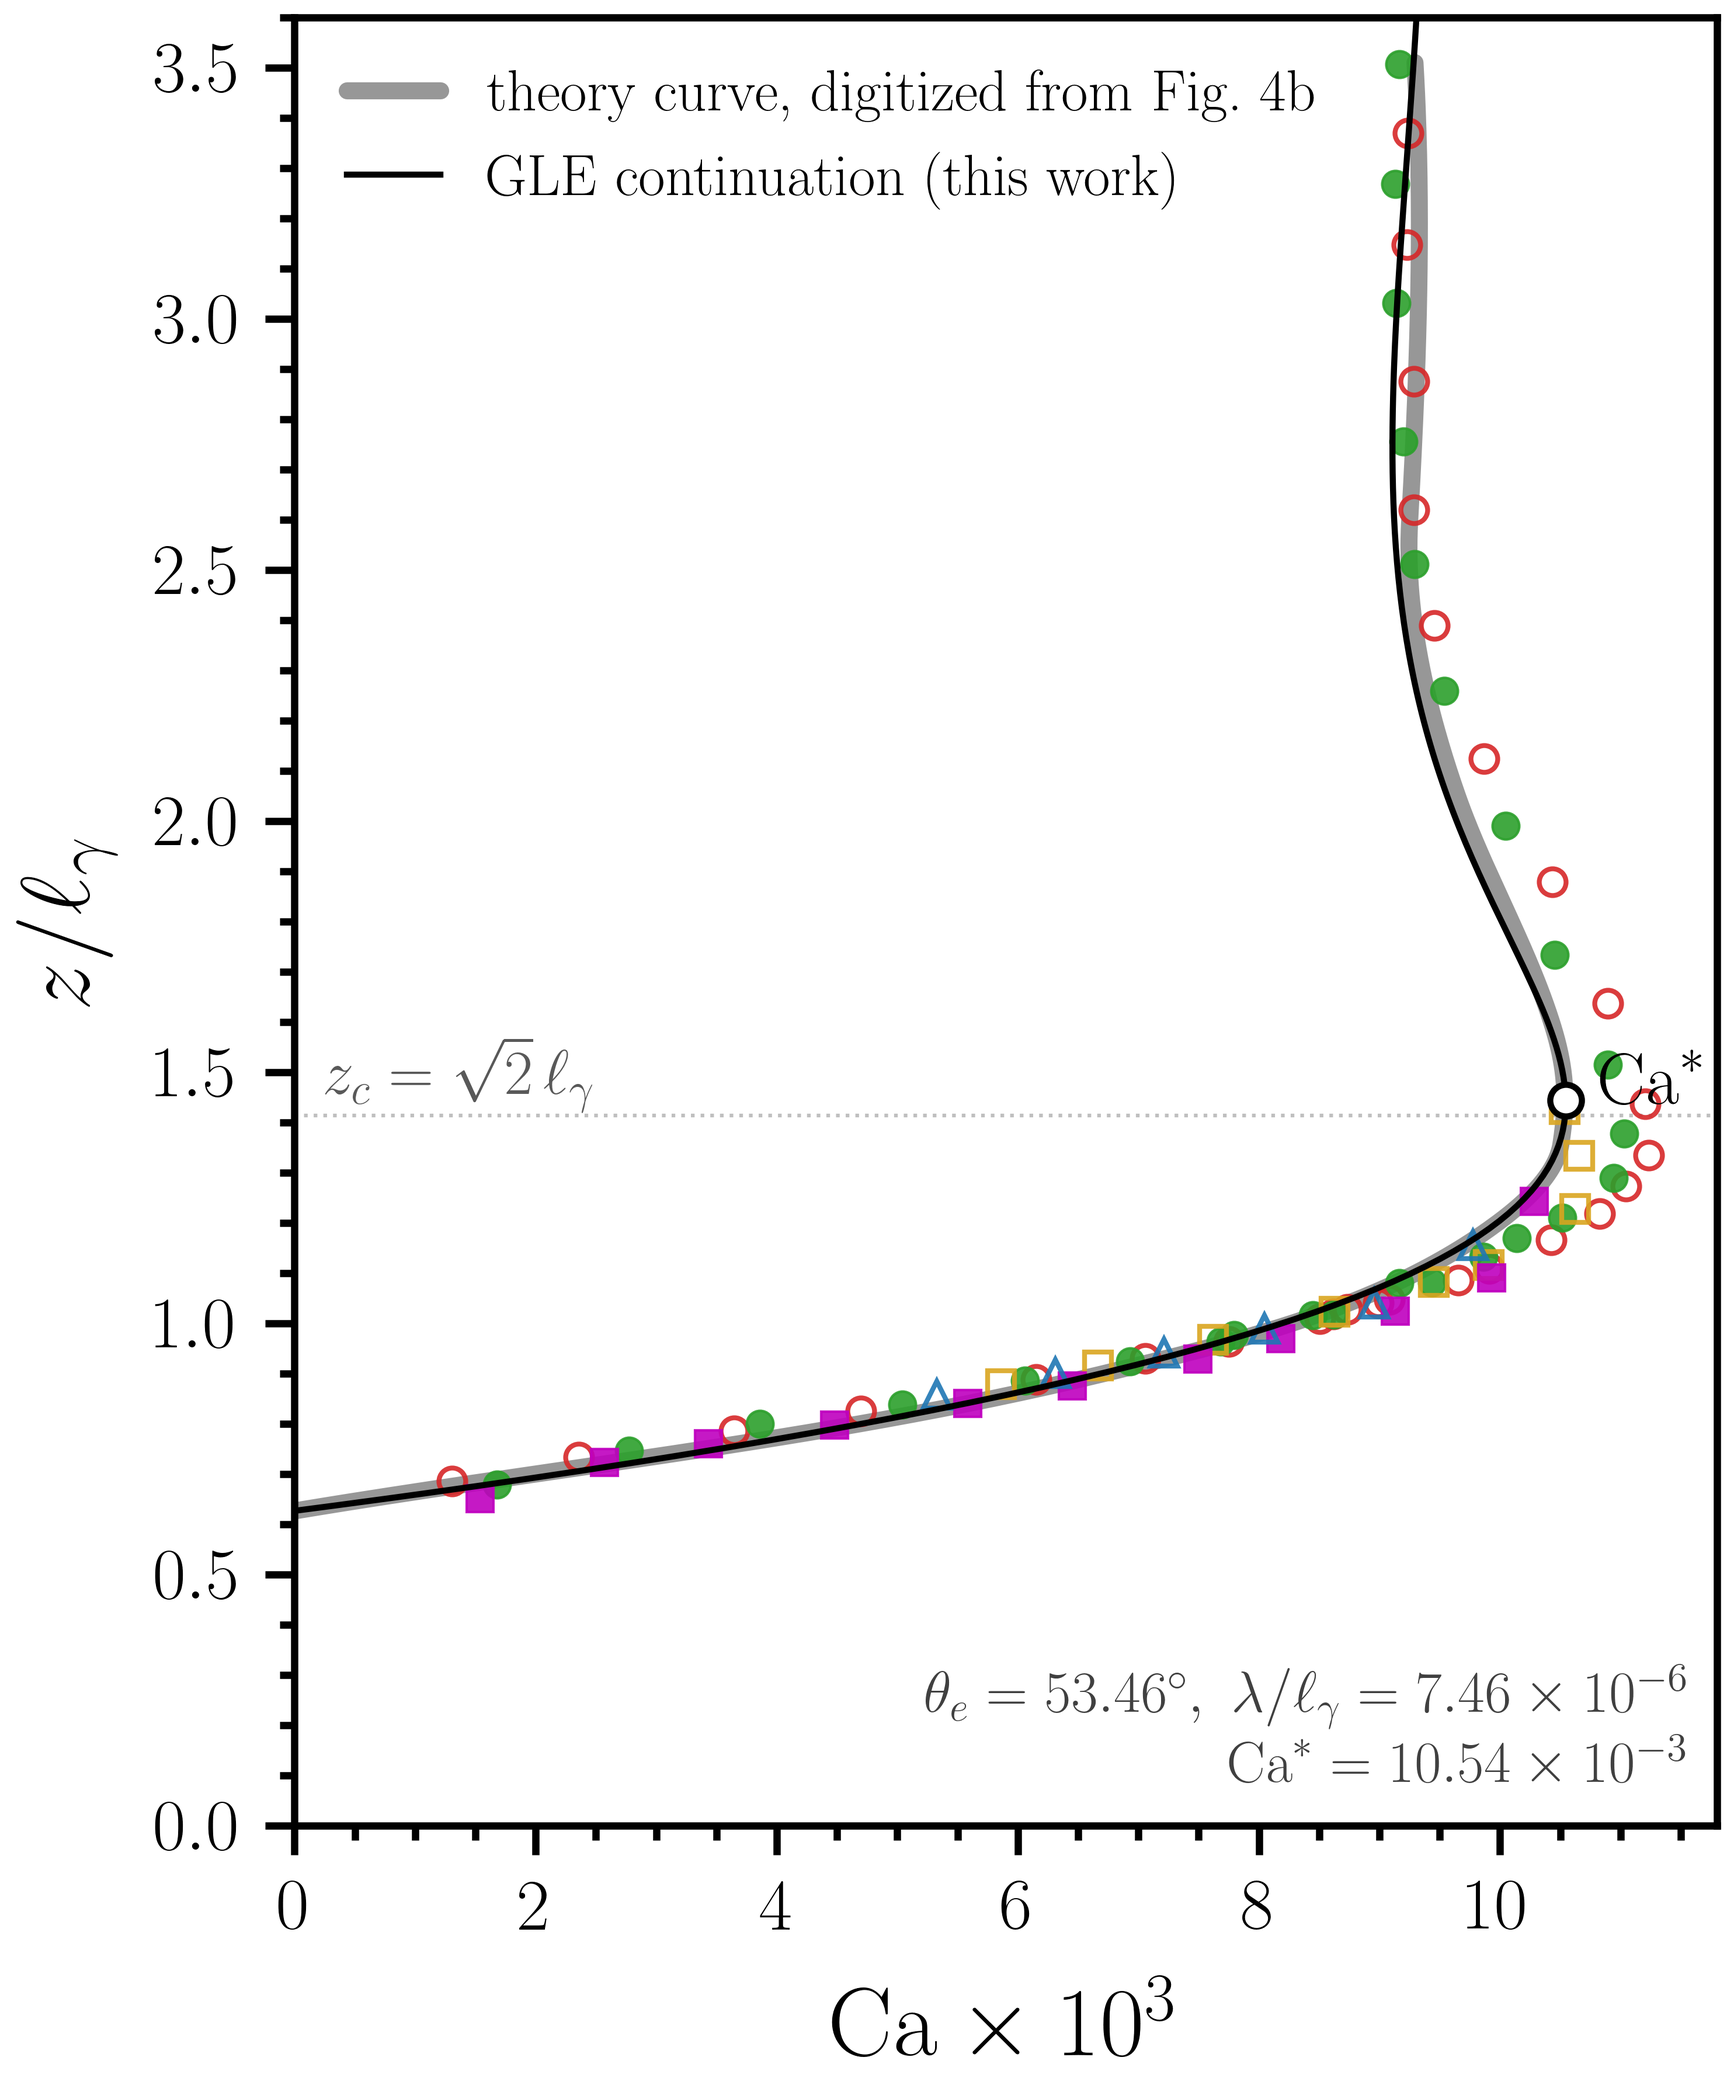
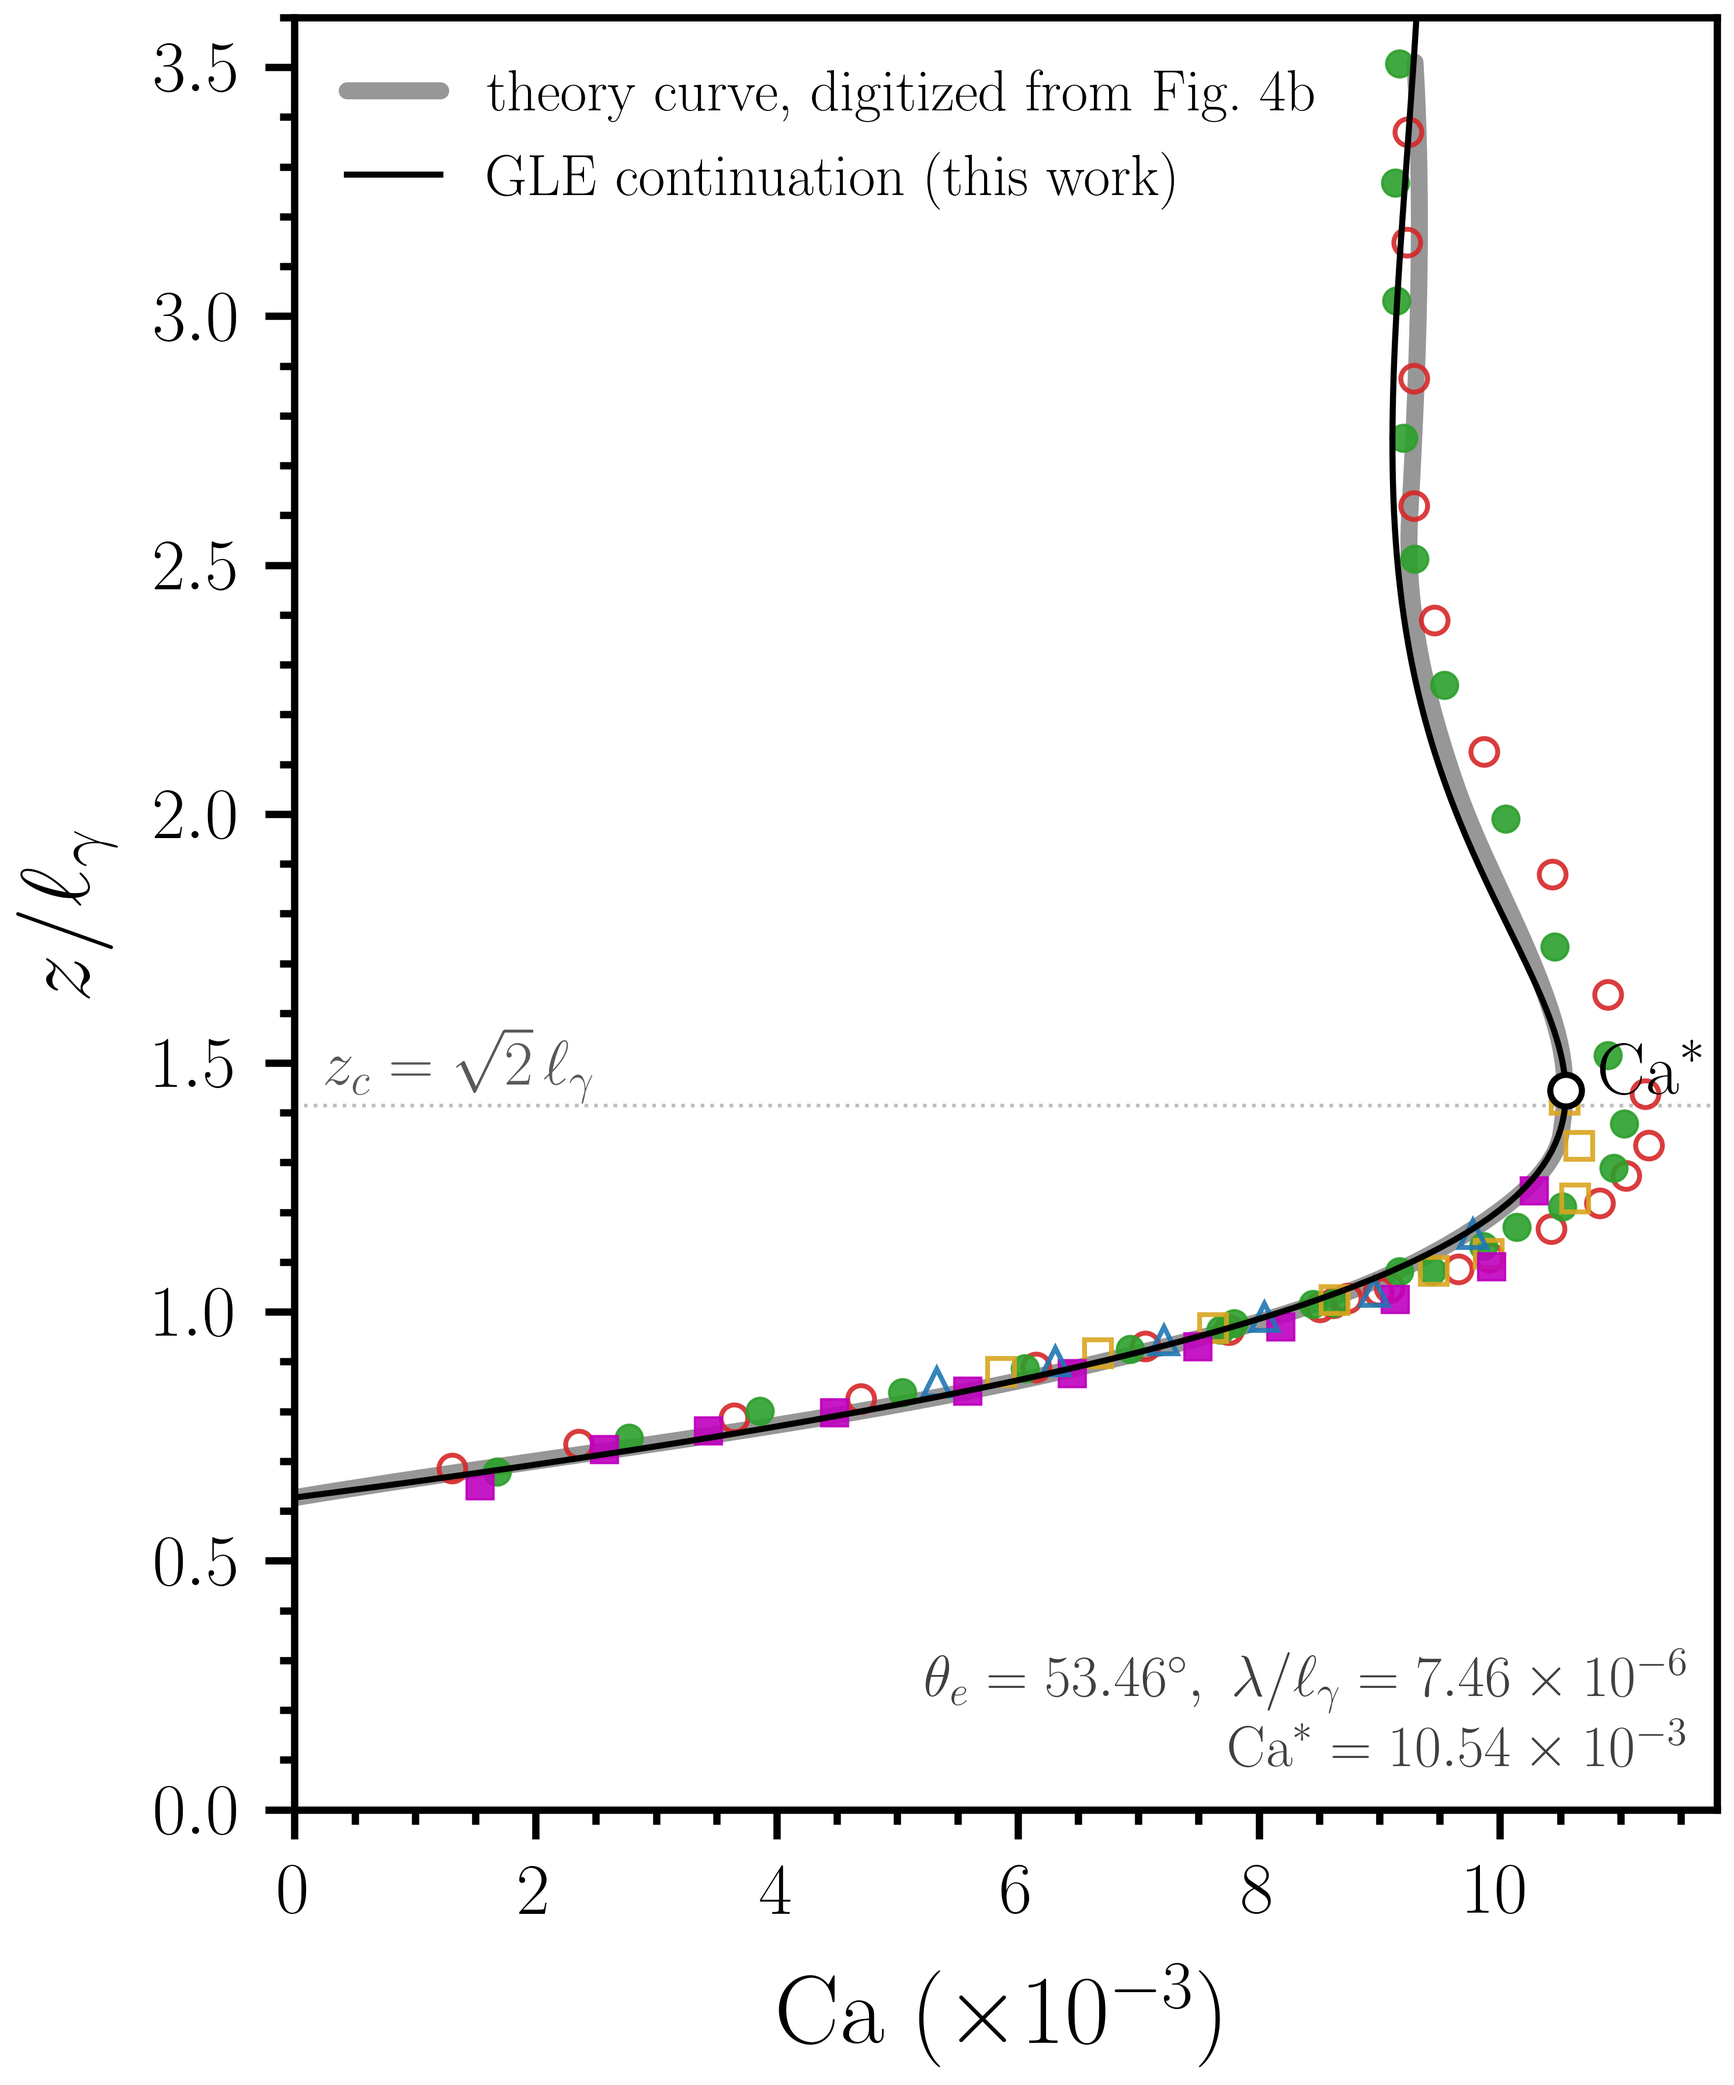
Rename gle-only to gle-ode; fix fig-4b axis label
Renamed the standalone-solver folder and swept every reference across
build files, docs, and post-processing scripts. Fixed the Fig. 4b
x-axis label to read Ca (x 10^-3), matching the paper's convention.

diff --git a/postProcess/plot-fig4b.py b/postProcess/plot-fig4b.py
@@ -7,7 +7,7 @@
 # Fig. 4b reproduction plot
 
 Overlays the pseudo-arclength/collocation continuation of the GLE
-(`gle-only/gle-continuation`) on the bifurcation diagram of Fig. 4b of
+(`gle-ode/gle-continuation`) on the bifurcation diagram of Fig. 4b of
 Snoeijer & Andreotti, *Annu. Rev. Fluid Mech.* 45:269-292 (2013): meniscus
 rise $z/\\ell_\\gamma$ versus capillary number for a partially wetting plate
 withdrawn from a silicone-oil bath.
@@ -21,7 +21,7 @@ Delon et al. (2008).
 
 ```bash
 uv run postProcess/plot-fig4b.py [branch.csv] [output.pdf]
-# defaults: gle-only/output/fig4b-branch.csv -> img/fig4b-reproduction.png+pdf
+# defaults: gle-ode/output/fig4b-branch.csv -> img/fig4b-reproduction.png+pdf
 ```
 
 ## Author
@@ -50,7 +50,7 @@ REPO = Path(__file__).resolve().parent.parent
 DIGI = REPO / 'data' / 'fig4b-digitized'
 
 branch_csv = Path(sys.argv[1]) if len(sys.argv) > 1 else \
-    REPO / 'gle-only' / 'output' / 'fig4b-branch.csv'
+    REPO / 'gle-ode' / 'output' / 'fig4b-branch.csv'
 out_base = Path(sys.argv[2]).with_suffix('') if len(sys.argv) > 2 else \
     REPO / 'img' / 'fig4b-reproduction'
 out_base.parent.mkdir(parents=True, exist_ok=True)
@@ -111,7 +111,7 @@ ax.text(0.25, np.sqrt(2.0) + 0.04, r'$z_c = \sqrt{2}\,\ell_\gamma$',
 
 ax.set_xlim(0, 11.8)
 ax.set_ylim(0, 3.6)
-ax.set_xlabel(r'$\mathrm{Ca} \times 10^{3}$', fontsize=40, labelpad=15)
+ax.set_xlabel(r'$\mathrm{Ca}\;(\times 10^{-3})$', fontsize=40, labelpad=15)
 ax.set_ylabel(r'$z/\ell_\gamma$', fontsize=40, labelpad=15)
 
 ax.tick_params(which='both', direction='out', width=3, labelsize=30, pad=10)

diff --git a/postProcess/compare-c-python.py b/postProcess/compare-c-python.py
@@ -10,7 +10,7 @@
 # `compare-c-python.py` — cross-validate the C GLE solver against the Python reference
 
 This script reproduces, end to end, the comparison between the C implementation
-of the Generalized Lubrication Equation (GLE) solver (`gle-only/gle-solve`,
+of the Generalized Lubrication Equation (GLE) solver (`gle-ode/gle-solve`,
 built on the headers in `src-local/`) and the historical Python reference
 (`GLE_solver.py`). Both solve the *same* boundary-value problem for a vertical
 plate withdrawing from a bath,
@@ -138,7 +138,7 @@ def run_c(repo: Path, gle):
     Returns ``(s, h, theta_rad)``. The physical parameters are taken from the
     imported Python module so the two solvers are guaranteed identical.
     """
-    src = repo / "gle-only" / "gle-solve.c"
+    src = repo / "gle-ode" / "gle-solve.c"
     inc = repo / "src-local"
     grav = 1.0 / gle.l_cap ** 2                    # g* = 1 / l_cap^2
     theta_deg = float(np.rad2deg(gle.theta0))

diff --git a/src-local/gle-params.h b/src-local/gle-params.h
@@ -3,7 +3,7 @@
 
 Minimal runtime-parameter layer following the CoMPhy convention (parameter
 files of `key = value` lines, `#` comments, CLI `key=value` overrides). The
-drivers in [gle-only/](../gle-only/) call `gle_params_load()` with `argc/argv`;
+drivers in [gle-ode/](../gle-ode/) call `gle_params_load()` with `argc/argv`;
 the first non-`key=value` argument is treated as a parameter file path.
 
 Angles are given in **degrees** in parameter files (`theta_mic_deg`) and

diff --git a/README.md b/README.md
@@ -141,13 +141,13 @@ make test            # smoke test; also compiles the Basilisk case if qcc is pre
 Single solve at one capillary number:
 
 ```bash
-cd gle-only && ./gle-solve fig4b.params Ca=5e-3
+cd gle-ode && ./gle-solve fig4b.params Ca=5e-3
 ```
 
 Trace the bifurcation branch through the fold:
 
 ```bash
-cd gle-only && ./gle-continuation fig4b.params branch_out=output/branch.csv
+cd gle-ode && ./gle-continuation fig4b.params branch_out=output/branch.csv
 ```
 
 The GLE-coupled DNS case (serial Basilisk):
@@ -174,7 +174,7 @@ Contact-line-subgrid-modeling
 │   ├── gle-continuation.h - legacy shooting-based arclength continuation (lower branch only)
 │   ├── gle-basilisk.h - the GLE ↔ DNS coupling seam
 │   └── gle-params.h - key=value runtime parameter loader with CLI overrides
-├── gle-only - standalone drivers and parameter files
+├── gle-ode - standalone drivers and parameter files
 │   ├── gle-solve.c - single GLE solve, writes the interface profile
 │   ├── gle-continuation.c - traces the dip-coating branch through the fold
 │   ├── fig4b.params - calibrated parameters reproducing the Fig. 4b theory curve
@@ -199,7 +199,7 @@ Contact-line-subgrid-modeling
 │   └── c-vs-python.png - the C-vs-Python cross-validation figure
 ├── _Archive - superseded code kept for provenance (do not resurrect)
 ├── .github - documentation pipeline and website generator
-├── Makefile - top-level build delegating to gle-only
+├── Makefile - top-level build delegating to gle-ode
 ├── reproduce-fig4b.sh - one-shot branch trace + figure regeneration
 └── LICENSE
 ```

diff --git a/AGENTS.md b/AGENTS.md
@@ -15,7 +15,7 @@ and couples to a Basilisk two-phase DNS above it.
   BVP in `gle-shoot.h`; fold-free collocation branch tracer in
   `gle-collocate.h`; legacy shooting continuation in `gle-continuation.h`; the
   GLE ↔ DNS seam in `gle-basilisk.h`; the `key=value` loader in `gle-params.h`.
-- `gle-only/` — standalone drivers (`gle-solve.c`, `gle-continuation.c`), the
+- `gle-ode/` — standalone drivers (`gle-solve.c`, `gle-continuation.c`), the
   calibrated `fig4b.params`, and a self-contained `Makefile`.
 - `simulationCases/` — Basilisk DNS cases; `contactline-gle.c` is the
   GLE-coupled case, `contactline.c` the fixed-angle baseline.
@@ -69,7 +69,7 @@ either solver:
    well-conditioned window.
 4. Gravity-rescaling invariance:
    ```bash
-   cd gle-only
+   cd gle-ode
    ./gle-continuation fig4b.params slip=3.73e-6 grav=4.0 Delta_max=1.8
    ```
    `fold_Ca` must stay invariant to $\sim 10^{-3}$; `fold_Delta` halves to

diff --git a/_Archive/README.md b/_Archive/README.md
@@ -1,7 +1,7 @@
 # Archive
 
 Superseded code kept for provenance, not for use. The active solver stack
-lives in `src-local/gle-*.h`, `gle-only/`, and `python/`.
+lives in `src-local/gle-*.h`, `gle-ode/`, and `python/`.
 
 ## GSL/SUNDIALS-era C solver
 
